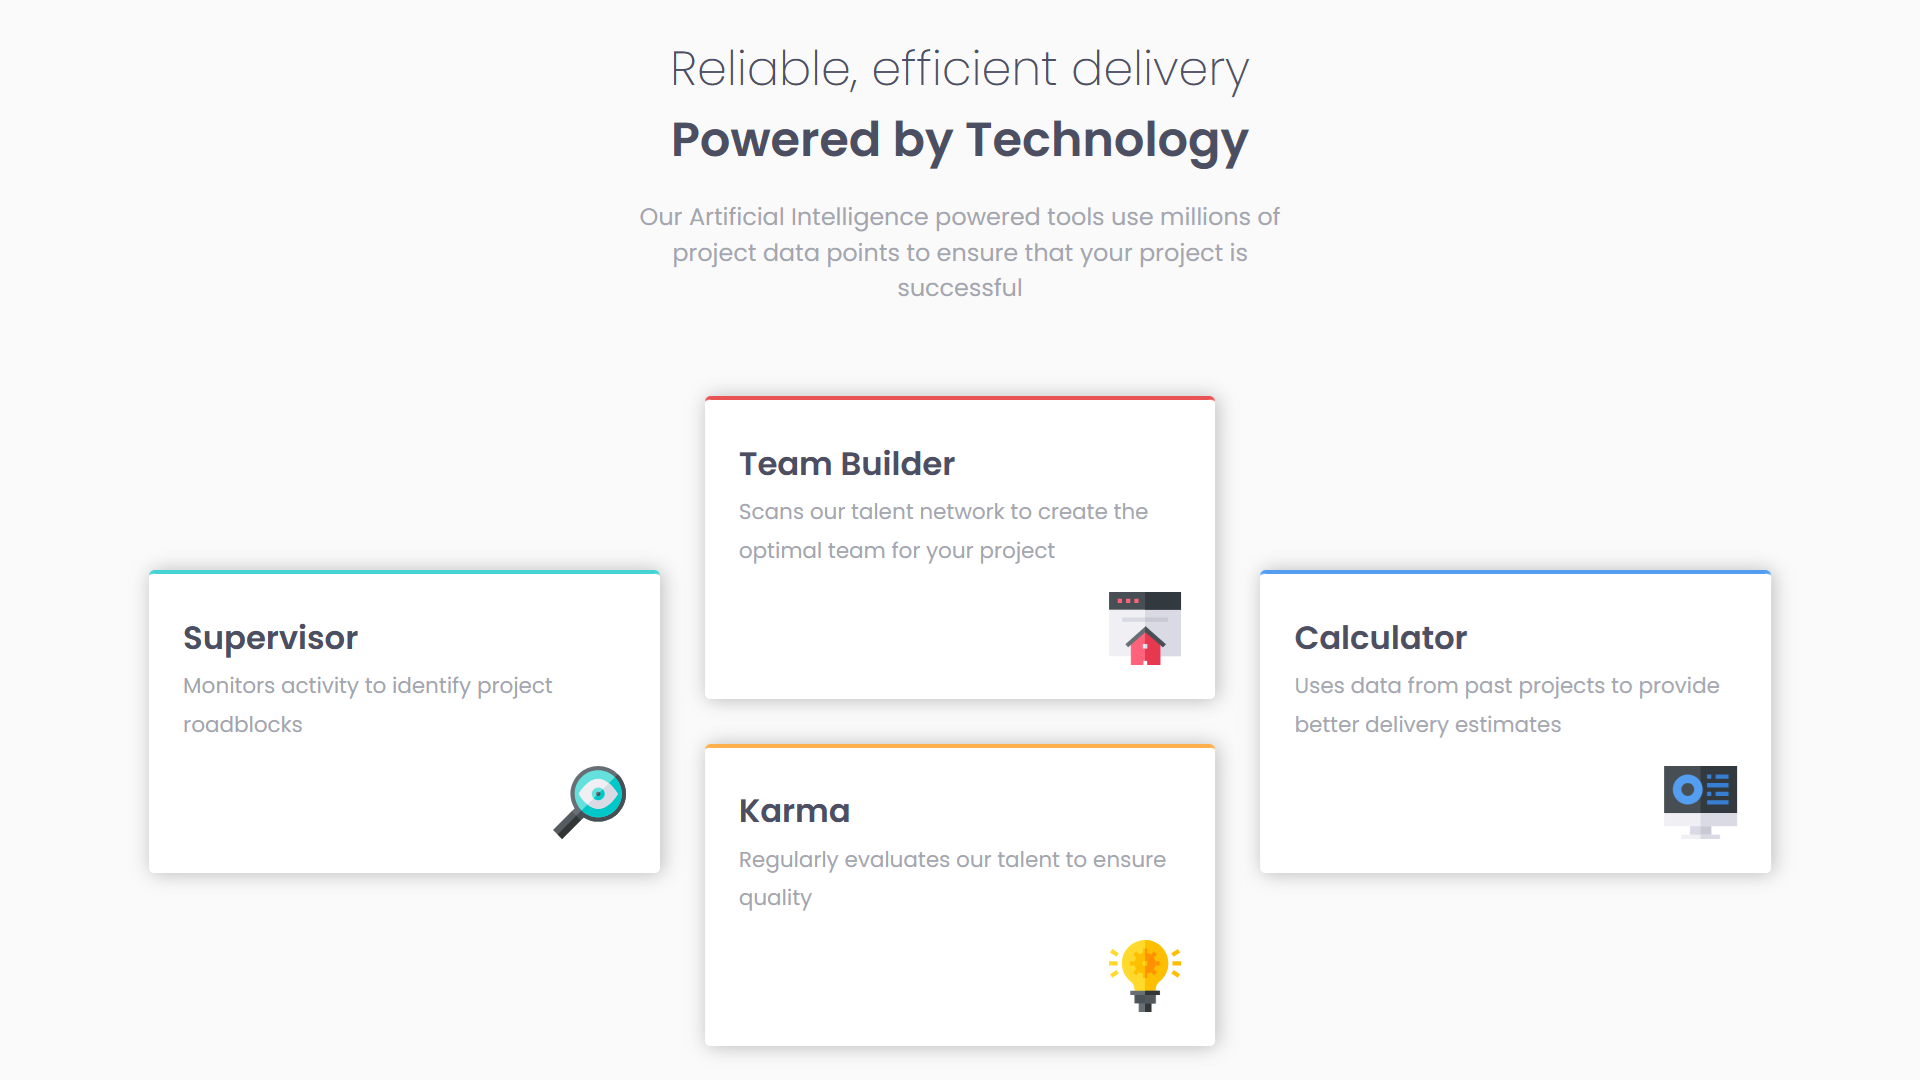
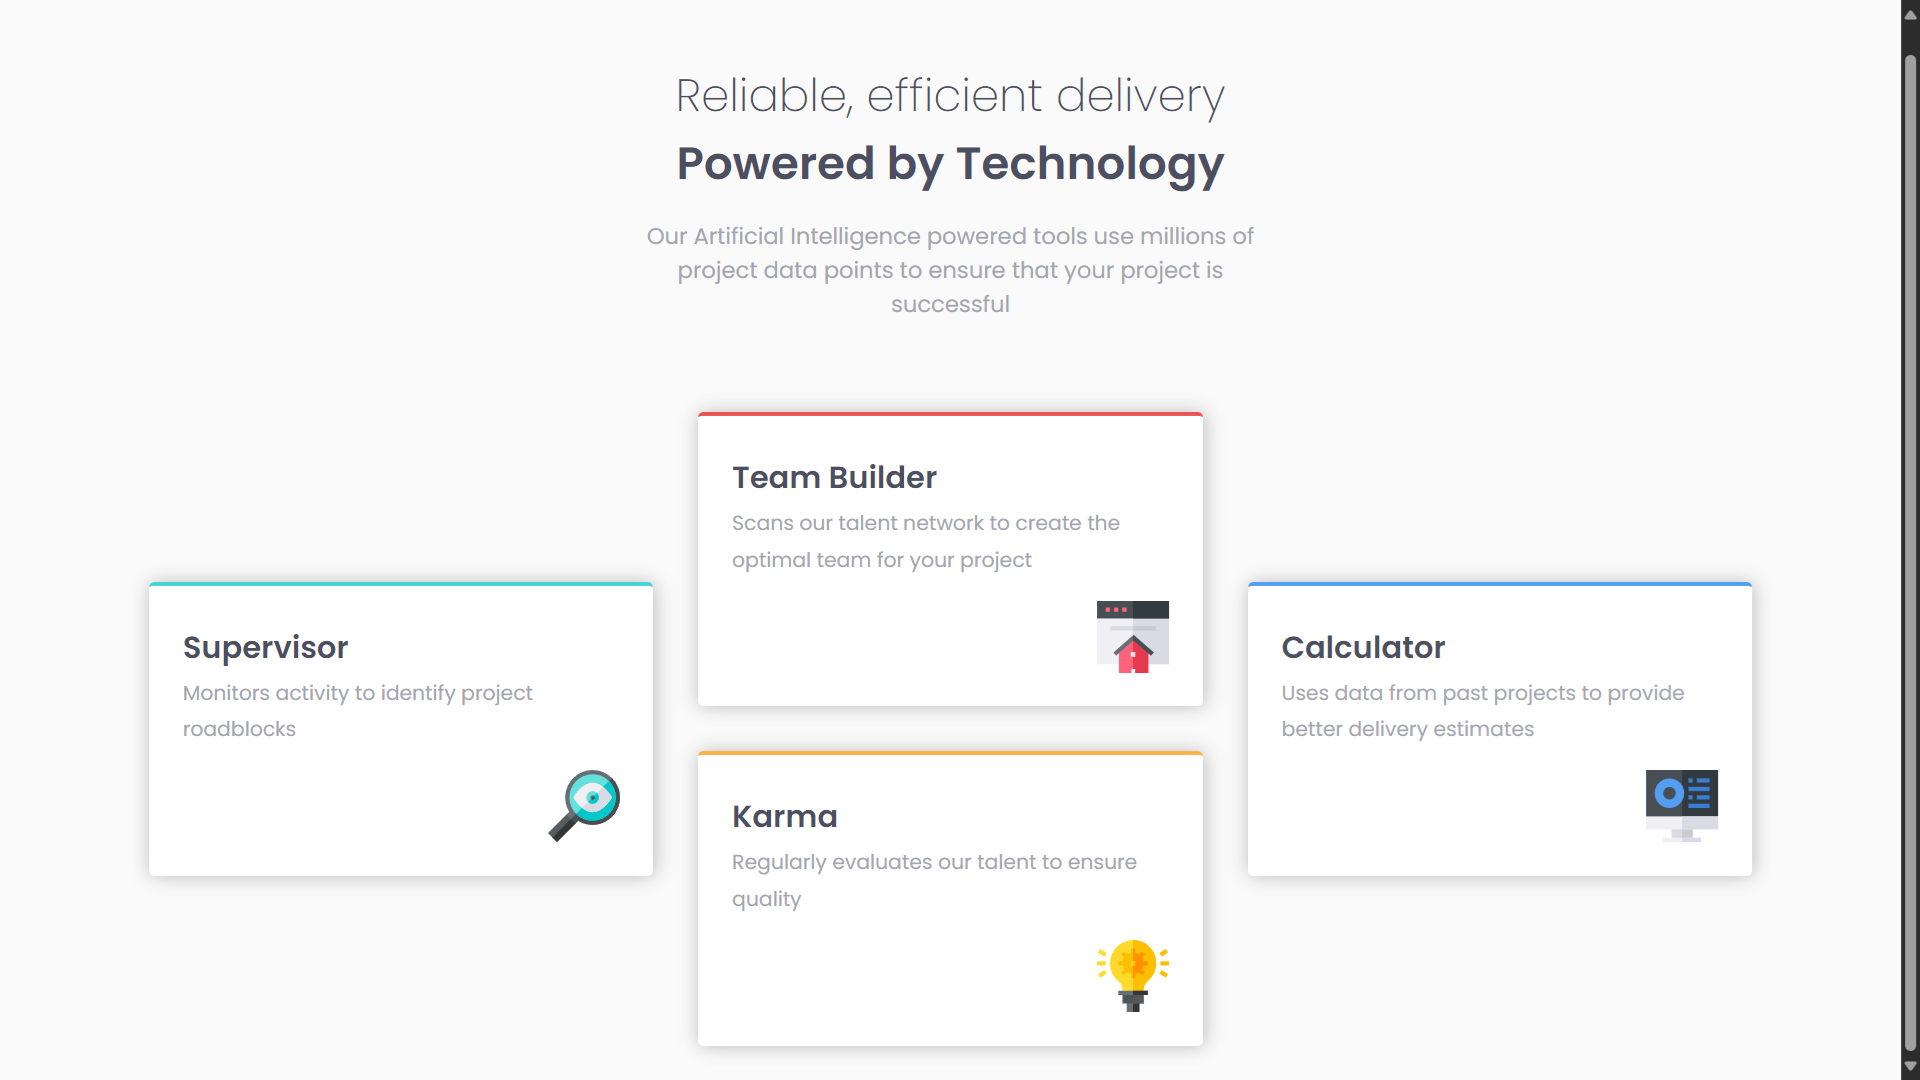
Correct font size

diff --git a/styles/style.css b/styles/style.css
@@ -91,13 +91,13 @@
 
 @media screen and (min-width: 48em) {
   :root {
-    font-size: clamp(1rem, 1rem + .2vw, 2rem);
+    font-size: clamp(1rem, 1rem - 1px + .2vw, 2rem);
   }
 }
 
 @media screen and (min-width: 64em) {
   :root {
-    font-size: clamp(1rem, 1rem + .3vw, 2rem);
+    font-size: clamp(1rem, 1rem - 1px + .3vw, 2rem);
   }
   .container__heading {font-size: 2rem;}
   .container__powered-by {font-size: 2rem;}
